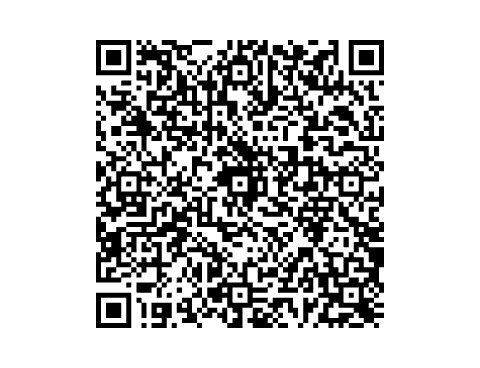
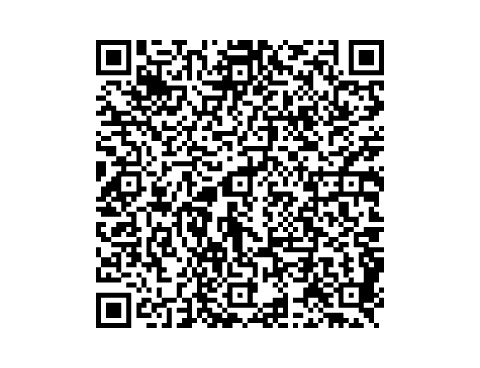
20260416

Changed region(s): [[0.1875, 0.0897, 0.8125, 0.8967]]

diff --git a/app/inboundSite/demoTop/page.jsx b/app/inboundSite/demoTop/page.jsx
@@ -3,18 +3,35 @@ export default function DemoTop() {
 
     return (
         <div className="min-h-screen bg-gradient-to-br from-white via-slate-200 to-slate-100 overflow-hidden">
-            <div className="flex justify-center">
-            <div className="flex flex-row-2 gap-x-8 p-10">
-                <button className="w-96 h-96 border-2 rounded-xl bg-blue-800 hover:bg-blue-900 text-white">
-                    <a href="https://aiconcierge.vercel.app/api/renew?to=%2Faicon%2Fchat5%3Fattribute%3DeQOL_Hotel_Ikebukuro_Demo%26code%3DkNQT" target="_blank" className="flex flex-col h-full">
-                    <div className="text-xl font-bold mt-6">インバウンドコンシェルジュ体験</div>
-                    <div className="px-2 text-sm mt-4">ホテル宿泊者用アプリのサンプルです</div>
-                    <div className="px-2 text-sm mt-8">QRコードを読み取るかこの青いボタンをクリック</div>
-                    <img className="w-64 m-4 mx-auto mt-5" src="/HotelDemo.jpg" alt="QRコード" />
+            <div className="mt-10 text-2xl font-bold text-blue-800 text-center lg:text-3xl sm:text-2xl">インバウンドコンシェルジュ無料体験</div>
+            <div className="mt-4 text-lg font-bold text-blue-800 text-center lg:text-2xl sm:text-xl">「ホテル池袋」（架空のホテルです）の宿泊客になったつもりで質問してみましょう</div>
+            <div className="mt-6 w-4/5 mx-auto bg-yellow-400 p-5 rounded-xl">
+                <li className="ml-5">東京都豊島区内の仮想のホテル「ホテル池袋」を念頭にQ&Aリストを設定しました<span className="mx-5">Q&Aデータを確認したい場合は<a className="text-blue-500" href="https://docs.google.com/spreadsheets/d/1Ff0Ip7R6sMI0oX4pR9PuoKPU9hsYvmL5/edit?usp=sharing&ouid=117492770886811328460&rtpof=true&sd=true" target="_blank" rel="noopener noreferrer">こちら</a></span></li>
+                <li className="ml-5">設定したQ&Aは93 WiFi、朝食場所、近隣情報などを学習しています</li>
+                <li className="ml-5">学習済みQ&Aを元に回答した場合は、回答の最後に参照したQ&A番号を表示します</li>
+                <li className="ml-5">学習済みQ&Aに回答すべき内容がない場合は、汎用AIの知識でコンシェルジュとしてふさわしい回答をするように設計されています</li>
+                <li className="ml-5">それでも適切な回答を導けない場合は、あらかじめ設定した回答不能時の応答をします</li>
+                <li className="ml-5">対応言語は、「日本語」「英語」「中国語（簡体）」「中国語（繁体）」「韓国語」です</li>
+                <li className="ml-5">最初に使用する言語を選択します　お使いのデバイスに設定された言語が自動的に選択されます</li>
+                <li className="ml-5">お使いの言語が対応言語の中にない場合は、デフォルトで英語が選択されます 自分で言語を選択することも可能です</li>
+                <li className="ml-5">コンシェルジュの解答欄に画像のアイコンが表示される場合は添付書類付きです クリックすると拡大します</li>
+            </div>
+            <div className="flex items-center justify-center gap-x-8 p-10">
+                <button className="w-48 h-24 border-2 rounded-xl bg-blue-800 hover:bg-blue-900 text-white">
+                    <a href="https://aiconcierge.vercel.app/api/renew?to=%2Faicon%2Fchat%3Fattribute%3DeQOL_Hotel_Ikebukuro_Demo%26code%3DkNQT" target="_blank" className="flex h-full items-center justify-center">
+                    <div className="px-2 text-sm">デモ開始</div>
+                    
                     </a>
                 </button>
-            </div>
+                <div>または</div>
+                <div>
+                    <img className="h-24" src="/HotelDemo.jpg" alt="QRコード" />
+                </div>
             </div>
         </div>
     );
 }
+
+/*
+
+*/

diff --git a/app/inboundSite/page.tsx b/app/inboundSite/page.tsx
@@ -39,7 +39,7 @@ export default function InboundSite() {
             </div>            
         </div>
         <div className="mt-8 mb-8 w-3/5 mx-auto">
-        <YouTubeEmbed videoId="bER629Yt4Pc?si=oeNjrw14aJnXqyCG" title="インバウンドコンシェルジュ紹介動画"/>
+          <YouTubeEmbed videoId="bER629Yt4Pc?si=oeNjrw14aJnXqyCG" title="インバウンドコンシェルジュ紹介動画"/>
         </div>
     </div>
   );
